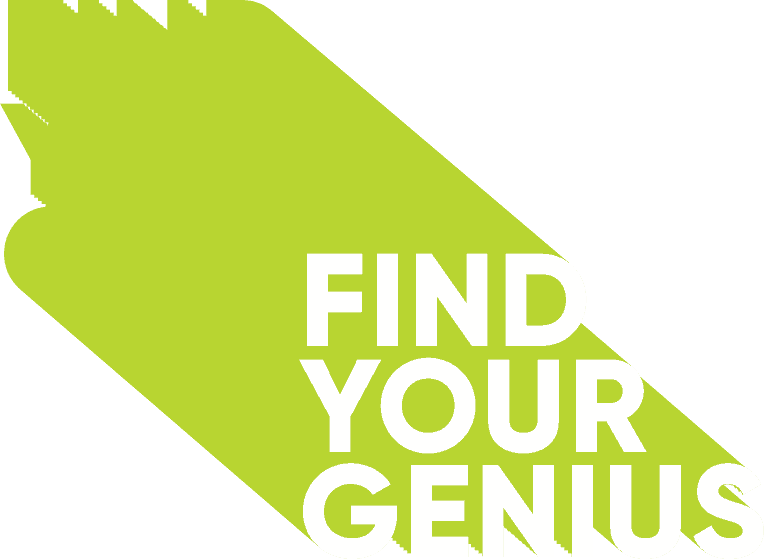
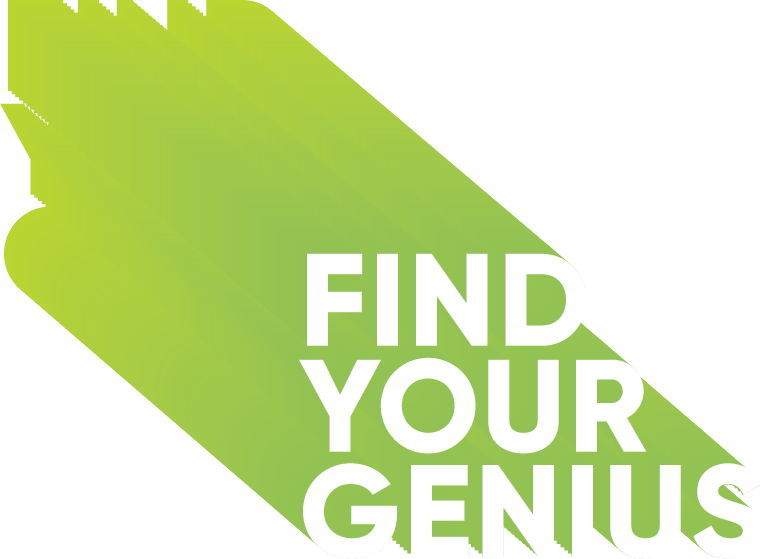
Initial Find Your Genius animations.

Changed region(s): [[0.2408, 0.2737, 0.9935, 1.0]]

diff --git a/assets/css/style.css b/assets/css/style.css
@@ -1063,10 +1063,91 @@ form .align-right {
 .front .find-your-genius {
   text-align: center;
   position: relative;
+  -webkit-animation-name: fadeIn;
+          animation-name: fadeIn;
+  opacity: 0;
+  -webkit-animation-duration: 1s;
+          animation-duration: 1s;
+  background: url("/assets/images/front/find-your-genius_bg.png");
+  background-position: 50% 50%;
+  -webkit-animation-fill-mode: forwards;
+          animation-fill-mode: forwards;
+  /* Sets reference point to scale from */
+  background-size: cover;
+  /* Sets background image to cover entire element */
+  height: 550px;
+  margin: 0 0 2rem 0;
+  padding: 0 0 100px 0;
+  overflow: hidden;
+  width: 100%;
+}
+.front .find-your-genius .title {
+  position: absolute;
+  top: -190px;
+  left: -217px;
+  -webkit-animation-name: slideDownfromLeft;
+          animation-name: slideDownfromLeft;
+  -webkit-animation-duration: 1s;
+          animation-duration: 1s;
+  -webkit-animation-timing-function: ease;
+          animation-timing-function: ease;
+  -webkit-animation-delay: .5s;
+          animation-delay: .5s;
+  opacity: 0;
+  -webkit-animation-fill-mode: forwards;
+          animation-fill-mode: forwards;
+}
+.front .find-your-genius .independent-learner {
+  position: absolute;
+  top: -36px;
+  right: 364px;
+  -webkit-animation-name: slideDown;
+          animation-name: slideDown;
+  -webkit-animation-duration: 1s;
+          animation-duration: 1s;
+  -webkit-animation-timing-function: ease;
+          animation-timing-function: ease;
+  -webkit-animation-delay: 1.5s;
+          animation-delay: 1.5s;
+  opacity: 0;
+  -webkit-animation-fill-mode: forwards;
+          animation-fill-mode: forwards;
+}
+.front .find-your-genius .future-designer {
+  position: absolute;
+  bottom: -58px;
+  right: 170px;
+  -webkit-animation-name: slideUp;
+          animation-name: slideUp;
+  -webkit-animation-duration: 1s;
+          animation-duration: 1s;
+  -webkit-animation-timing-function: ease;
+          animation-timing-function: ease;
+  -webkit-animation-delay: 2.5s;
+          animation-delay: 2.5s;
+  opacity: 0;
+  -webkit-animation-fill-mode: forwards;
+          animation-fill-mode: forwards;
+}
+.front .find-your-genius .creative-inventor {
+  position: absolute;
+  top: -45px;
+  right: -30px;
+  -webkit-animation-name: slideRight;
+          animation-name: slideRight;
+  -webkit-animation-duration: 1s;
+          animation-duration: 1s;
+  -webkit-animation-timing-function: ease;
+          animation-timing-function: ease;
+  -webkit-animation-delay: 2s;
+          animation-delay: 2s;
+  opacity: 0;
+  -webkit-animation-fill-mode: forwards;
+          animation-fill-mode: forwards;
 }
 .front .find-your-genius .call-to-action {
   position: absolute;
-  bottom: 40px;
+  bottom: -25px;
   z-index: 2;
   left: 50%;
   -webkit-transform: translateX(-50%);
@@ -1074,7 +1155,7 @@ form .align-right {
           transform: translateX(-50%);
 }
 .front .find-your-genius .call-to-action:hover {
-  bottom: 39px;
+  bottom: -24px;
   top: auto;
   -webkit-transform: scale(1.075) translateX(-50%);
       -ms-transform: scale(1.075) translateX(-50%);
@@ -1435,6 +1516,119 @@ form .align-right {
   margin: 4rem 0;
 }
 
+@-webkit-keyframes fadeIn {
+  0% {
+    opacity: 0;
+  }
+  100% {
+    opacity: 1;
+  }
+}
+
+@keyframes fadeIn {
+  0% {
+    opacity: 0;
+  }
+  100% {
+    opacity: 1;
+  }
+}
+@-webkit-keyframes slideDownfromLeft {
+  0% {
+    -webkit-transform: translateY(-100%) translateX(-100%);
+            transform: translateY(-100%) translateX(-100%);
+    opacity: 1;
+  }
+  100% {
+    -webkit-transform: translateY(0%) translateX(0%);
+            transform: translateY(0%) translateX(0%);
+    opacity: 1;
+  }
+}
+@keyframes slideDownfromLeft {
+  0% {
+    -webkit-transform: translateY(-100%) translateX(-100%);
+            transform: translateY(-100%) translateX(-100%);
+    opacity: 1;
+  }
+  100% {
+    -webkit-transform: translateY(0%) translateX(0%);
+            transform: translateY(0%) translateX(0%);
+    opacity: 1;
+  }
+}
+@-webkit-keyframes slideDown {
+  0% {
+    -webkit-transform: translateY(-100%) translateX(-100%) rotate(0deg);
+            transform: translateY(-100%) translateX(-100%) rotate(0deg);
+    opacity: 1;
+  }
+  100% {
+    -webkit-transform: translateY(0%) translateX(0%) rotate(360deg);
+            transform: translateY(0%) translateX(0%) rotate(360deg);
+    opacity: 1;
+  }
+}
+@keyframes slideDown {
+  0% {
+    -webkit-transform: translateY(-100%) translateX(-100%) rotate(0deg);
+            transform: translateY(-100%) translateX(-100%) rotate(0deg);
+    opacity: 1;
+  }
+  100% {
+    -webkit-transform: translateY(0%) translateX(0%) rotate(360deg);
+            transform: translateY(0%) translateX(0%) rotate(360deg);
+    opacity: 1;
+  }
+}
+@-webkit-keyframes slideUp {
+  0% {
+    -webkit-transform: translateY(100%) translateX(100%) rotate(-360deg);
+            transform: translateY(100%) translateX(100%) rotate(-360deg);
+    opacity: 1;
+  }
+  100% {
+    -webkit-transform: translateY(0%) translateX(0%) rotate(0deg);
+            transform: translateY(0%) translateX(0%) rotate(0deg);
+    opacity: 1;
+  }
+}
+@keyframes slideUp {
+  0% {
+    -webkit-transform: translateY(100%) translateX(100%) rotate(-360deg);
+            transform: translateY(100%) translateX(100%) rotate(-360deg);
+    opacity: 1;
+  }
+  100% {
+    -webkit-transform: translateY(0%) translateX(0%) rotate(0deg);
+            transform: translateY(0%) translateX(0%) rotate(0deg);
+    opacity: 1;
+  }
+}
+@-webkit-keyframes slideRight {
+  0% {
+    -webkit-transform: translateY(-100%) translateX(-100%) rotate(-360deg);
+            transform: translateY(-100%) translateX(-100%) rotate(-360deg);
+    opacity: 1;
+  }
+  100% {
+    -webkit-transform: translateY(0%) translateX(0%) rotate(0deg);
+            transform: translateY(0%) translateX(0%) rotate(0deg);
+    opacity: 1;
+  }
+}
+@keyframes slideRight {
+  0% {
+    -webkit-transform: translateY(-100%) translateX(-100%) rotate(-360deg);
+            transform: translateY(-100%) translateX(-100%) rotate(-360deg);
+    opacity: 1;
+  }
+  100% {
+    -webkit-transform: translateY(0%) translateX(0%) rotate(0deg);
+            transform: translateY(0%) translateX(0%) rotate(0deg);
+    opacity: 1;
+  }
+}
 .blog-wrapper .blog-item {
   padding-bottom: 2em;
 }

diff --git a/assets/sass/partials/design/pages/_front.scss b/assets/sass/partials/design/pages/_front.scss
@@ -3,14 +3,72 @@
         //background-color: #b9d531; // Fuego
         text-align: center;
         position: relative;
+        animation-name: fadeIn;
+        opacity: 0;
+        animation-duration: 1s;
+        background: url('/assets/images/front/find-your-genius_bg.png');
+        background-position: 50% 50%;
+        animation-fill-mode: forwards;
+        /* Sets reference point to scale from */
+        background-size: cover;
+        /* Sets background image to cover entire element */
+        height: 550px;
+        margin: 0 0 2rem 0;
+        padding: 0 0 100px 0;
+        overflow: hidden;
+        width: 100%;
+        .title {
+            position: absolute;
+            top: -190px;
+            left: -217px;
+            animation-name: slideDownfromLeft;
+            animation-duration: 1s;
+            animation-timing-function: ease;
+            animation-delay: .5s;
+            opacity: 0;
+            animation-fill-mode: forwards;
+        }
+        .independent-learner {
+            position: absolute;
+            top: -36px;
+            right: 364px;
+            animation-name: slideDown;
+            animation-duration: 1s;
+            animation-timing-function: ease;
+            animation-delay: 1.5s;
+            opacity: 0;
+            animation-fill-mode: forwards;
+        }
+        .future-designer {
+            position: absolute;
+            bottom: -58px;
+            right: 170px;
+            animation-name: slideUp;
+            animation-duration: 1s;
+            animation-timing-function: ease;
+            animation-delay: 2.5s;
+            opacity: 0;
+            animation-fill-mode: forwards;
+        }
+        .creative-inventor {
+            position: absolute;
+            top: -45px;
+            right: -30px;
+            animation-name: slideRight;
+            animation-duration: 1s;
+            animation-timing-function: ease;
+            animation-delay: 2s;
+            opacity: 0;
+            animation-fill-mode: forwards;
+        }
         .call-to-action {
             position: absolute;
-            bottom: 40px;
+            bottom: -25px;
             z-index: 2;
             left: 50%;
             transform: translateX(-50%);
             &:hover {
-                bottom: 39px;
+                bottom: -24px;
                 top: auto;
                 transform: scale(1.075) translateX(-50%);
             }
@@ -309,4 +367,57 @@
 
 .container-margin-large {
     margin: 4rem 0;
+}
+
+@keyframes fadeIn {
+    0% {
+        opacity: 0;
+    }
+    100% {
+        opacity: 1;
+    }
+}
+
+@keyframes slideDownfromLeft {
+    0% {
+        transform: translateY(-100%) translateX(-100%);
+        opacity: 1;
+    }
+    100% {
+        transform: translateY(0%) translateX(0%);
+        opacity: 1;
+    }
+}
+
+@keyframes slideDown {
+    0% {
+        transform: translateY(-100%) translateX(-100%) rotate(0deg);
+        opacity: 1;
+    }
+    100% {
+        transform: translateY(0%) translateX(0%) rotate(360deg);
+        opacity: 1;
+    }
+}
+
+@keyframes slideUp {
+    0% {
+        transform: translateY(100%) translateX(100%) rotate(-360deg);
+        opacity: 1;
+    }
+    100% {
+        transform: translateY(0%) translateX(0%) rotate(0deg);
+        opacity: 1;
+    }
+}
+
+@keyframes slideRight {
+    0% {
+        transform: translateY(-100%) translateX(-100%) rotate(-360deg);
+        opacity: 1;
+    }
+    100% {
+        transform: translateY(0%) translateX(0%) rotate(0deg);
+        opacity: 1;
+    }
 }

diff --git a/_layouts/front.html b/_layouts/front.html
@@ -7,7 +7,12 @@ body_class: front
     <div class="find-your-genius">
         {% comment %} <img src="/assets/images/templates/find-your-genius.png" alt="find-your-genius"> {% endcomment %}
         <a href="#" class="call-to-action">Enroll Now</a>
-        <img src="{{site.cloudinaryurl}}image/fetch/w_1528,h_549,c_fill,c_fill/{{site.url}}/assets/images/templates/find-your-genius.png" alt="find-your-genius" data-img="{{site.url}}/assets/images/templates/find-your-genius.png" data-width="1528px" data-height="549px">
+        <img src="/assets/images/front/find-your-genius_title.png" class="title">
+
+        <img src="/assets/images/front/independent-learner_button.png" class="independent-learner">
+        <img src="/assets/images/front/future-designer_button.png" class="future-designer">
+        <img src="/assets/images/front/creative-inventor_button.png" class="creative-inventor">
+        {% comment %} <img src="{{site.cloudinaryurl}}image/fetch/w_1528,h_549,c_fill,c_fill/{{site.url}}/assets/images/templates/find-your-genius.png" alt="find-your-genius" data-img="{{site.url}}/assets/images/templates/find-your-genius.png" data-width="1528px" data-height="549px"> {% endcomment %}
     </div>
 
     <section class="secondary">
